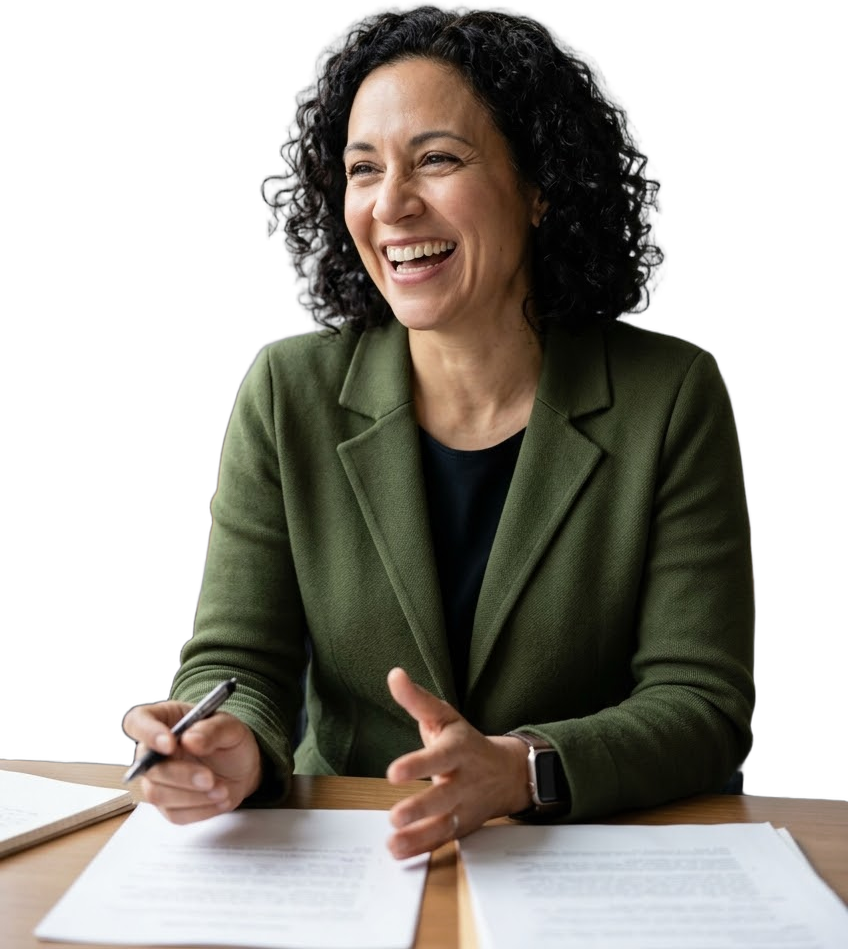
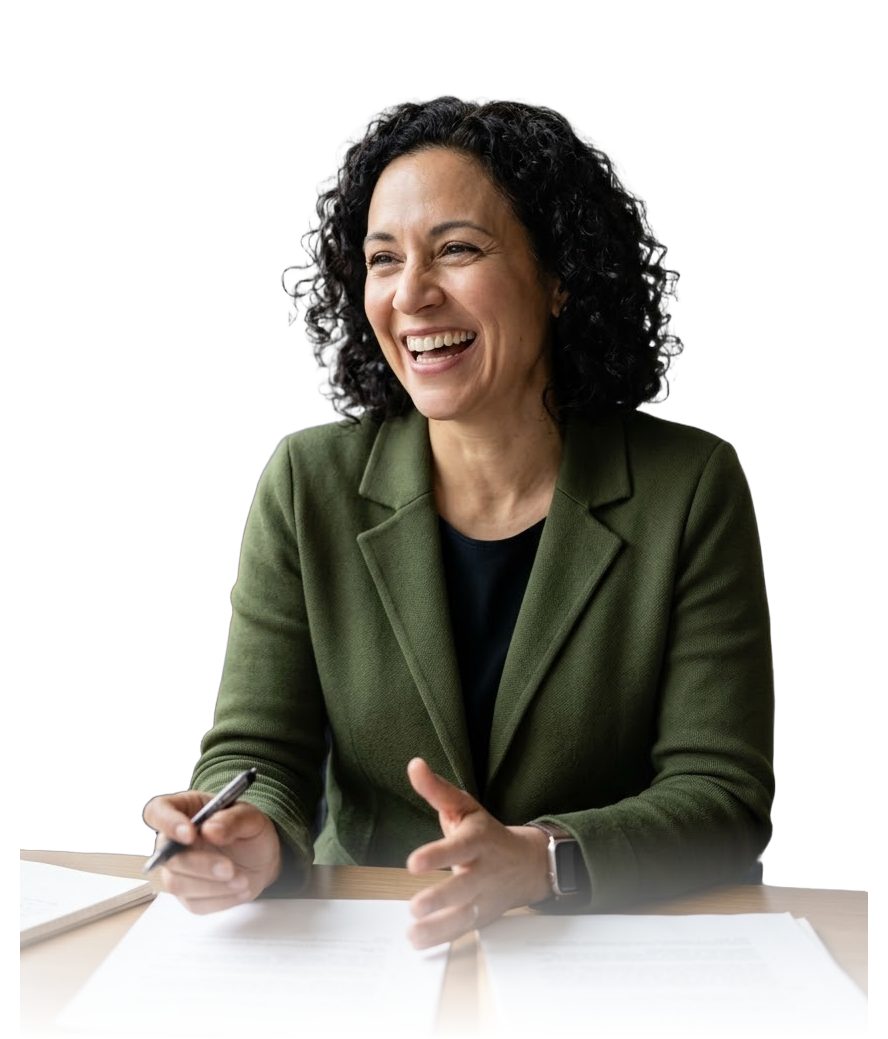
Fix the hero photo treatment properly instead of patching it
Previous version had real problems: the cutout ended in a hard
rectangular cut straight through papers on a desk (no natural edge
existed in the source photo to crop to), the background was a couple
of faint blurred circles instead of a designed backdrop, the ring
accent was thin and awkwardly placed, and the photo itself was too
small to carry the hero. Also fixes a real mobile bug: the previous
fixed-pixel image container widths overflowed narrow viewports and
clipped the headline text.

- Baked a bottom alpha fade into the source image itself so the
  desk/papers dissolve into the page instead of being sharply cut
- Added top padding to the cutout so her hair isn't touching the
  frame edge
- Container now uses aspect-ratio + max-width (responsive) instead
  of fixed pixel dimensions per breakpoint, eliminating the overflow
- Bigger, bolder ring accent correctly centered on her head
- Richer background: higher-saturation blobs plus a dot-grid texture
- Photo is significantly larger and now the clear focal point

Claude-Session: https://claude.ai/code/session_01PmUBkkqgZ5ph8YnXyezUqK

diff --git a/components/hero.tsx b/components/hero.tsx
@@ -10,12 +10,21 @@ export function Hero() {
   const [workshopsStat, familiesStat] = IMPACT_STATS
 
   return (
-    <section className="relative overflow-hidden border-b border-hairline bg-gradient-to-b from-canvas-soft to-canvas">
-      <DecorativeBlob className="-left-24 -top-24 size-80 bg-arm-consulting/20" />
-      <DecorativeBlob className="-right-16 top-10 size-72 bg-arm-media/25" />
-      <DecorativeBlob className="bottom-[-6rem] left-1/3 size-64 bg-arm-mission/15" />
+    <section className="relative overflow-hidden border-b border-hairline bg-gradient-to-br from-arm-consulting/15 via-canvas-soft to-arm-media/20">
+      <div
+        aria-hidden
+        className="absolute inset-0 opacity-[0.35]"
+        style={{
+          backgroundImage:
+            "radial-gradient(circle, rgba(91,42,115,0.25) 1.5px, transparent 1.5px)",
+          backgroundSize: "28px 28px",
+        }}
+      />
+      <DecorativeBlob className="-left-28 -top-28 size-96 bg-arm-consulting/30" />
+      <DecorativeBlob className="-right-24 top-0 size-[26rem] bg-arm-media/35" />
+      <DecorativeBlob className="bottom-[-8rem] left-1/4 size-80 bg-arm-mission/25" />
 
-      <div className="relative mx-auto grid max-w-6xl items-center gap-12 px-6 py-20 sm:px-8 lg:grid-cols-[1.05fr_0.95fr] lg:gap-16 lg:py-28">
+      <div className="relative mx-auto grid max-w-6xl items-center gap-12 px-6 py-16 sm:px-8 lg:grid-cols-[1fr_1.1fr] lg:gap-8 lg:py-20">
         <div className="text-center lg:text-left">
           <p className="eyebrow">{SITE.name}</p>
           <h1 className="mt-5 text-4xl font-semibold tracking-tight text-ink sm:text-6xl">
@@ -34,22 +43,22 @@ export function Hero() {
           </div>
         </div>
 
-        <div className="relative mx-auto flex h-[360px] w-full max-w-sm items-end justify-center sm:h-[440px]">
+        <div className="relative mx-auto aspect-[888/1039] w-full max-w-[320px] sm:max-w-[420px] lg:max-w-[520px]">
           <div
             aria-hidden
-            className="absolute left-1/2 top-2 size-52 -translate-x-1/2 rounded-full border-4 border-arm-media/40 sm:top-4 sm:size-60"
+            className="absolute left-[53%] top-[19%] size-40 -translate-x-1/2 -translate-y-1/2 rounded-full border-[6px] border-arm-media sm:size-56 lg:size-72"
           />
 
           <Image
             src="/images/founder-hero.png"
             alt="Founder of The Beautifully Human Educator"
-            width={848}
-            height={949}
+            fill
             priority
-            className="relative h-full w-auto object-contain object-bottom drop-shadow-[0_30px_45px_rgba(37,24,39,0.25)]"
+            sizes="(max-width: 640px) 320px, (max-width: 1024px) 420px, 520px"
+            className="object-contain object-bottom"
           />
 
-          <div className="absolute -left-4 top-8 flex items-center gap-2 rounded-full bg-surface-card px-4 py-2 shadow-lg sm:-left-8 sm:top-12">
+          <div className="absolute left-0 top-[26%] flex items-center gap-2 rounded-full bg-surface-card px-4 py-2 shadow-xl">
             <ChalkboardTeacher size={20} weight="duotone" className="text-primary" />
             <div className="leading-tight">
               <p className="text-sm font-semibold text-ink">{workshopsStat.value}</p>
@@ -57,7 +66,7 @@ export function Hero() {
             </div>
           </div>
 
-          <div className="absolute -right-4 bottom-16 flex items-center gap-2 rounded-full bg-surface-card px-4 py-2 shadow-lg sm:-right-8 sm:bottom-24">
+          <div className="absolute right-0 top-[58%] flex items-center gap-2 rounded-full bg-surface-card px-4 py-2 shadow-xl">
             <UsersThree size={20} weight="duotone" className="text-arm-mission" />
             <div className="leading-tight">
               <p className="text-sm font-semibold text-ink">{familiesStat.value}</p>
